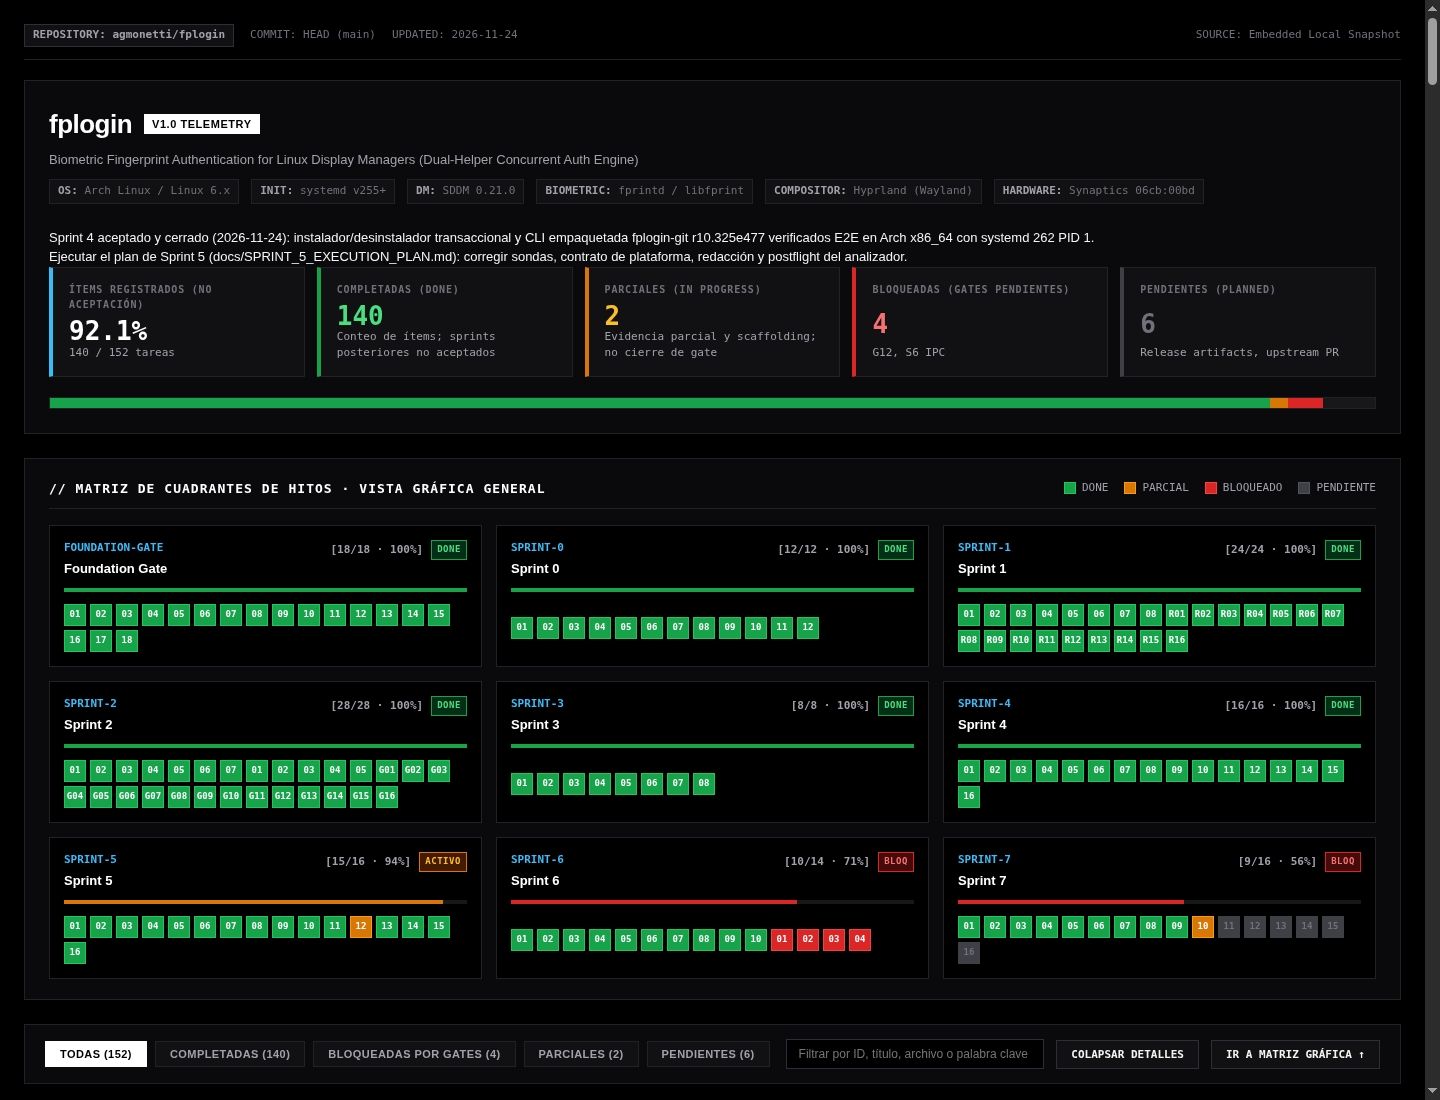
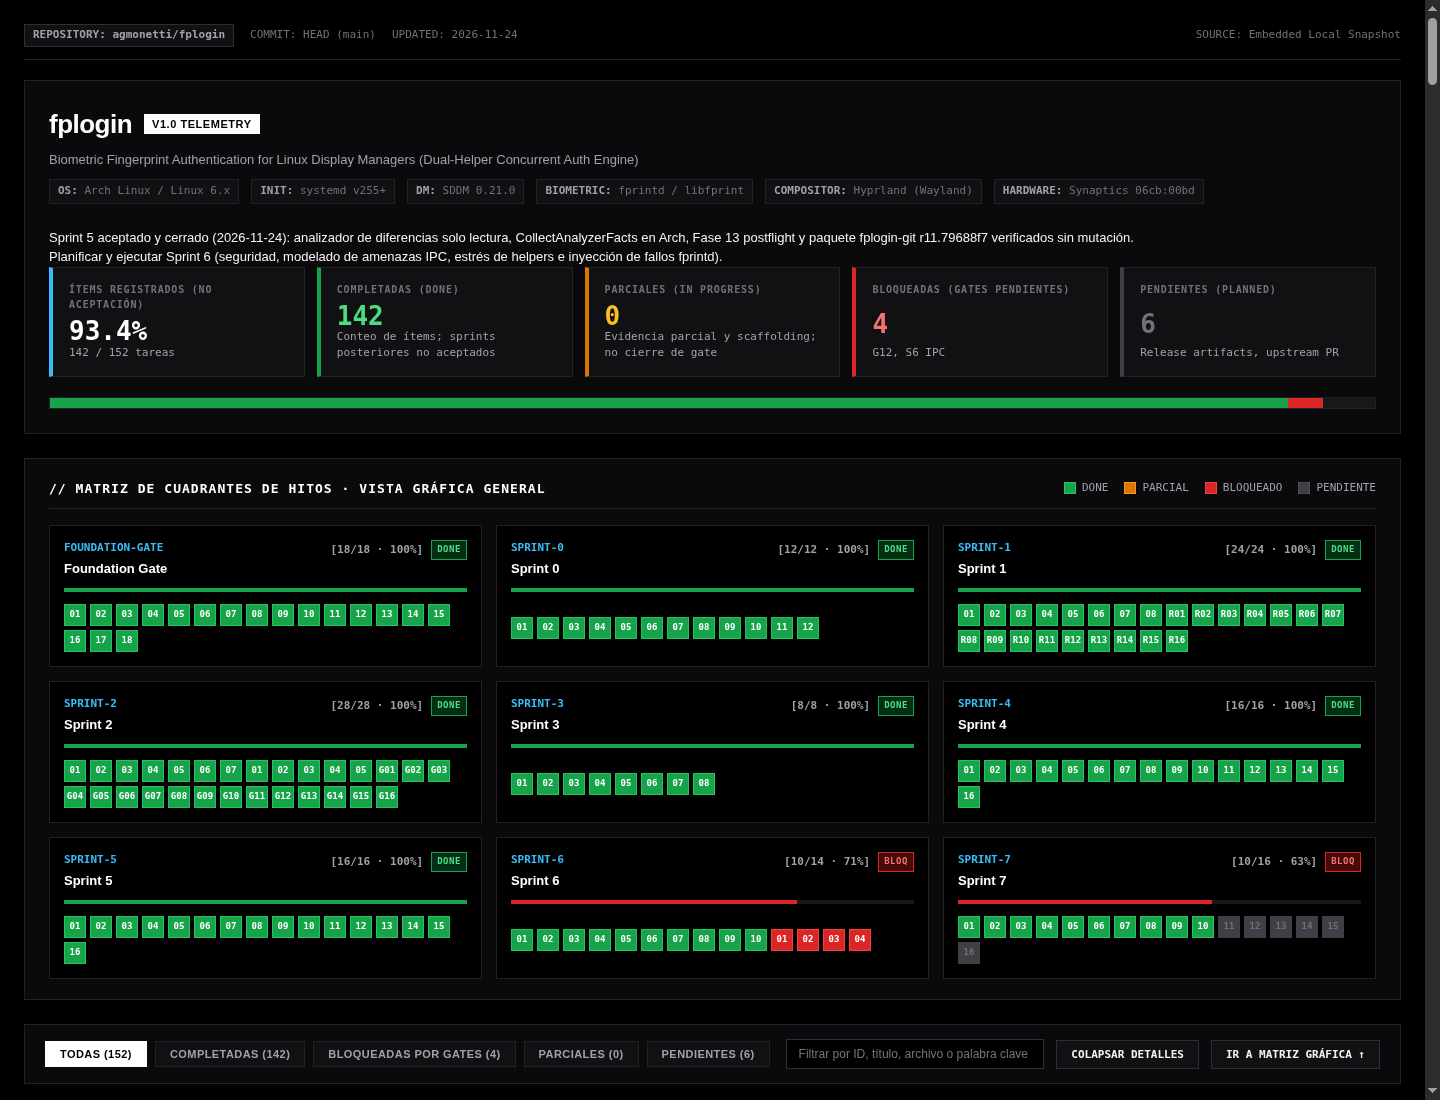
docs: accept and close Sprint 5 and refresh dashboard

diff --git a/dashboard.html b/dashboard.html
@@ -1044,17 +1044,17 @@
     "target_v1": "Arch Linux \u00b7 systemd \u00b7 SDDM 0.21.0 \u00b7 fprintd / libfprint \u00b7 Hyprland",
     "reference_hardware": "Synaptics 06cb:00bd (match-on-sensor USB)",
     "last_updated": "2026-11-24",
-    "current_gate": "Sprint 5 (analizador de diferencias del sistema)",
+    "current_gate": "Sprint 6 (seguridad y endurecimiento)",
     "current_gate_status": "partial",
-    "latest_achievement": "Sprint 4 aceptado y cerrado (2026-11-24): instalador/desinstalador transaccional y CLI empaquetada fplogin-git r10.325e477 verificados E2E en Arch x86_64 con systemd 262 PID 1.",
-    "next_step": "Ejecutar el plan de Sprint 5 (docs/SPRINT_5_EXECUTION_PLAN.md): corregir sondas, contrato de plataforma, redacci\u00f3n y postflight del analizador.",
+    "latest_achievement": "Sprint 5 aceptado y cerrado (2026-11-24): analizador de diferencias solo lectura, CollectAnalyzerFacts en Arch, Fase 13 postflight y paquete fplogin-git r11.79688f7 verificados sin mutaci\u00f3n.",
+    "next_step": "Planificar y ejecutar Sprint 6 (seguridad, modelado de amenazas IPC, estr\u00e9s de helpers e inyecci\u00f3n de fallos fprintd).",
     "summary": {
-      "total_items": 152,
-      "done": 140,
-      "partial": 2,
+      "done": 142,
+      "partial": 0,
       "blocked": 4,
       "pending": 6,
-      "percentage": 92.1
+      "total_items": 152,
+      "percentage": 93.4
     }
   },
   "sprints": [
@@ -1905,8 +1905,8 @@
     {
       "id": "sprint-5",
       "name": "Sprint 5",
-      "subtitle": "Analizador de Diferencias del Sistema (Gate Activo)",
-      "status": "partial",
+      "subtitle": "Analizador de Diferencias del Sistema (Aceptado y Cerrado)",
+      "status": "done",
       "goal": "Desarrollar un analizador de solo lectura que audita recursivamente la configuraci\u00f3n PAM, detecta almacenes de credenciales (KWallet, GNOME Keyring), vol\u00famenes cifrados (systemd-homed, crypttab) e impacto en compositores.",
       "items": [
         {
@@ -1942,7 +1942,7 @@
           "title": "Sonda de Secret Service y Almac\u00e9n de Credenciales",
           "status": "done",
           "description": "Verificaci\u00f3n de servicios activos de Secret Service en el bus D-Bus de sesi\u00f3n sin alterar ninguna credencial guardada.",
-          "evidence": "internal/core/analyze/wallets.go"
+          "evidence": "cmd/fplogin-platform-arch/analyzer_facts.go; internal/core/analyze/wallets.go"
         },
         {
           "id": "S5-06",
@@ -1989,16 +1989,16 @@
         {
           "id": "S5-12",
           "title": "Renderizador de Reporte para Terminal Humana",
-          "status": "partial",
-          "description": "El reporte de terminal concluye 'Fingerprint login is safe' cuando no hay hallazgos, sin limitaciones declaradas; exagera (auditor\u00eda A8).",
-          "evidence": "docs/reviews/cli-provider-audit-2026-11-12.md"
+          "status": "done",
+          "description": "Reporte de terminal acotado por evidencia (Audit A8 cerrado): elimina la afirmaci\u00f3n falsa de seguridad, distingue sesi\u00f3n de login de auth independiente (sudo/su/polkit/ssh/lockers) y emite limitaciones base.",
+          "evidence": "internal/core/report/report.go; docs/reviews/sprint-5.md"
         },
         {
           "id": "S5-13",
           "title": "Renderizador de Reporte JSON para M\u00e1quinas",
           "status": "done",
           "description": "Exportador conforme al esquema contracts/analyzer/v1/machine-report.schema.json para consumo por herramientas externas.",
-          "evidence": "internal/core/report/report.go"
+          "evidence": "internal/core/report/report.go; contracts/analyzer/v1/report.schema.json"
         },
         {
           "id": "S5-14",
@@ -2018,17 +2018,17 @@
           "id": "S5-16",
           "title": "Suite de Pruebas de Integraci\u00f3n del Analizador",
           "status": "done",
-          "description": "Suite en tests/integration/core/analyzer_test.go validando escenarios de PAM limpio, KWallet degradado y estructuras completas.",
-          "evidence": "tests/integration/core/analyzer_test.go"
+          "description": "Matriz de 7 familias de fixtures, validaci\u00f3n de esquema, cero mutaci\u00f3n, fase 13 postflight y verificaci\u00f3n empaquetada sin privilegios en contenedor Arch.",
+          "evidence": "tests/integration/core/analyzer_test.go; docs/reviews/sprint-5.md"
         }
       ],
       "summary": {
         "total": 16,
-        "done": 15,
-        "partial": 1,
+        "done": 16,
+        "partial": 0,
         "blocked": 0,
         "pending": 0,
-        "percentage": 93.75
+        "percentage": 100.0
       }
     },
     {
@@ -2219,9 +2219,9 @@
         {
           "id": "S7-10",
           "title": "CLI Unificado de Control de fplogin",
-          "status": "partial",
-          "description": "La CLI empaquetada expone install, uninstall, recover, status y components verificados E2E; analyze permanece experimental hasta cierre de Sprint 5.",
-          "evidence": "cmd/fplogin/main.go"
+          "status": "done",
+          "description": "CLI empaquetada fplogin-git r11.79688f7 con install, uninstall, recover, status, components y analyze (con Fase 13 postflight) verificados.",
+          "evidence": "cmd/fplogin/main.go; cmd/fplogin/analyze_cli.go"
         },
         {
           "id": "S7-11",
@@ -2268,11 +2268,11 @@
       ],
       "summary": {
         "total": 16,
-        "done": 9,
-        "partial": 1,
+        "done": 10,
+        "partial": 0,
         "blocked": 0,
         "pending": 6,
-        "percentage": 56.25
+        "percentage": 62.5
       }
     }
   ]

diff --git a/README.md b/README.md
@@ -4,7 +4,7 @@ Biometric login for Linux, under active development. The v1 target is fingerprin
 
 [![fplogin Project Telemetry & Milestone Matrix](docs/assets/dashboard.png)](dashboard.html)
 
-The dashboard reflects the accepted closure of [Sprint 4 (transactional installer and uninstaller)](docs/reviews/sprint-4.md) on 2026-11-24 (`fplogin-git 0.2.0.r10.325e477-1`, verified 5/5 packaged E2E and 16/16 lifecycle cases on Arch x86_64 with real systemd PID 1). Prior accepted gates: [Sprint 3 physical closeout](docs/reviews/sprint-3-physical-closure.md) (closed 2026-11-18), [Sprint 2 acceptance](docs/reviews/sprint-2-acceptance-2026-11-12.md) (closed 2026-11-12), and [Sprint 1 review](docs/reviews/sprint-1.md) (closed 2026-10-04). Next milestone: Sprint 5 — System difference analyzer ([Implementation Plan](docs/IMPLEMENTATION_PLAN.md)).
+The dashboard reflects the accepted closure of [Sprint 5 (system difference analyzer)](docs/reviews/sprint-5.md) on 2026-11-24 (`fplogin-git 0.2.0.r11.79688f7-1`, read-only `fplogin analyze`, Arch `CollectAnalyzerFacts`, Installer Phase 13 postflight, and Audit A8 wording closure). Prior accepted gates: [Sprint 4 (transactional installer and uninstaller)](docs/reviews/sprint-4.md) (closed 2026-11-24), [Sprint 3 physical closeout](docs/reviews/sprint-3-physical-closure.md) (closed 2026-11-18), [Sprint 2 acceptance](docs/reviews/sprint-2-acceptance-2026-11-12.md) (closed 2026-11-12), and [Sprint 1 review](docs/reviews/sprint-1.md) (closed 2026-10-04). Next milestone: Sprint 6 — Security hardening ([Implementation Plan](docs/IMPLEMENTATION_PLAN.md)).
 
 ## The problem
 
@@ -101,14 +101,14 @@ No existing system files will be modified in place. The installer will generate 
 
 ## CLI Usage
 
-The pinned Arch tools package (`fplogin-git 0.2.0.r10.325e477-1`) exposes both read-only unprivileged inspection and transactional offline installation/removal/recovery verified on Arch x86_64 with real systemd PID 1. Live `install`, `uninstall`, and `recover` require root privileges, a root-owned offline trust root (`/etc/fplogin/trust`), and explicit approval bound to the core-computed `ChangePlan` SHA-256 (plus separate `--approve-replace-dm` confirmation before replacing a conflicting display manager). See the [Sprint 4 execution plan](docs/SPRINT_4_EXECUTION_PLAN.md).
+The pinned Arch tools package (`fplogin-git 0.2.0.r11.79688f7-1`) exposes both read-only unprivileged inspection (`components`, `install --dry-run`, `status`, `analyze`) and transactional offline installation/removal/recovery verified on Arch x86_64 with real systemd PID 1. Live `install`, `uninstall`, and `recover` require root privileges, a root-owned offline trust root (`/etc/fplogin/trust`), and explicit approval bound to the core-computed `ChangePlan` SHA-256 (plus separate `--approve-replace-dm` confirmation before replacing a conflicting display manager), followed by non-fatal Phase 13 read-only postflight analysis. See the [Sprint 4 execution plan](docs/SPRINT_4_EXECUTION_PLAN.md) and [Sprint 5 review](docs/reviews/sprint-5.md).
 
 ```bash
 # Unprivileged read-only commands
 fplogin components                                              # list packaged providers and adapters
 fplogin install --dry-run [--target ADAPTER_ID/TARGET_ID]       # read-only preflight and preview
 fplogin status                                                  # read manifest and verify file checksums
-fplogin analyze --json                                          # experimental (Sprint 5 pending acceptance)
+fplogin analyze [--json] [--root DIR] [--service NAME]          # read-only password-derived facility analyzer
 
 # Root transactional commands (offline signed archives + /etc/fplogin/trust)
 sudo fplogin install --artifacts-dir DIR [--activate] [--approve-plan SHA256] [--approve-replace-dm]
@@ -128,6 +128,7 @@ To build the Arch tools package, run `make package` as an ordinary user in an is
 - [SDDM Greeter and Theme Design](docs/architecture/SDDM_GREETER_DESIGN.md): Sprint 2 context correlation, typed reader states, controlling-view lifecycle and password fallback.
 - [Sprint 2 Execution Plan](docs/SPRINT_2_EXECUTION_PLAN.md): Implementation slices, affected source paths and actual-surface acceptance matrix.
 - [Sprint 4 Acceptance Review](docs/reviews/sprint-4.md): Transactional installer/uninstaller closure, packaged KVM E2E evidence, and known limits.
+- [Sprint 5 Acceptance Review](docs/reviews/sprint-5.md): Read-only system difference analyzer, Arch `CollectAnalyzerFacts`, Audit A8 closure, and Phase 13 postflight.
 - [Sprint 5 Execution Plan](docs/SPRINT_5_EXECUTION_PLAN.md): System difference analyzer corrections, probes, wording accuracy, and postflight integration.
 - [Synaptics Test Hardware](docs/hardware/SYNAPTICS_06CB_00BD.md): Primary physical-reader record and scenario matrix.
 - [Research Lessons](docs/LESSONS.md): Grounded investigation, reference platforms, failed experiments, and security analysis.
